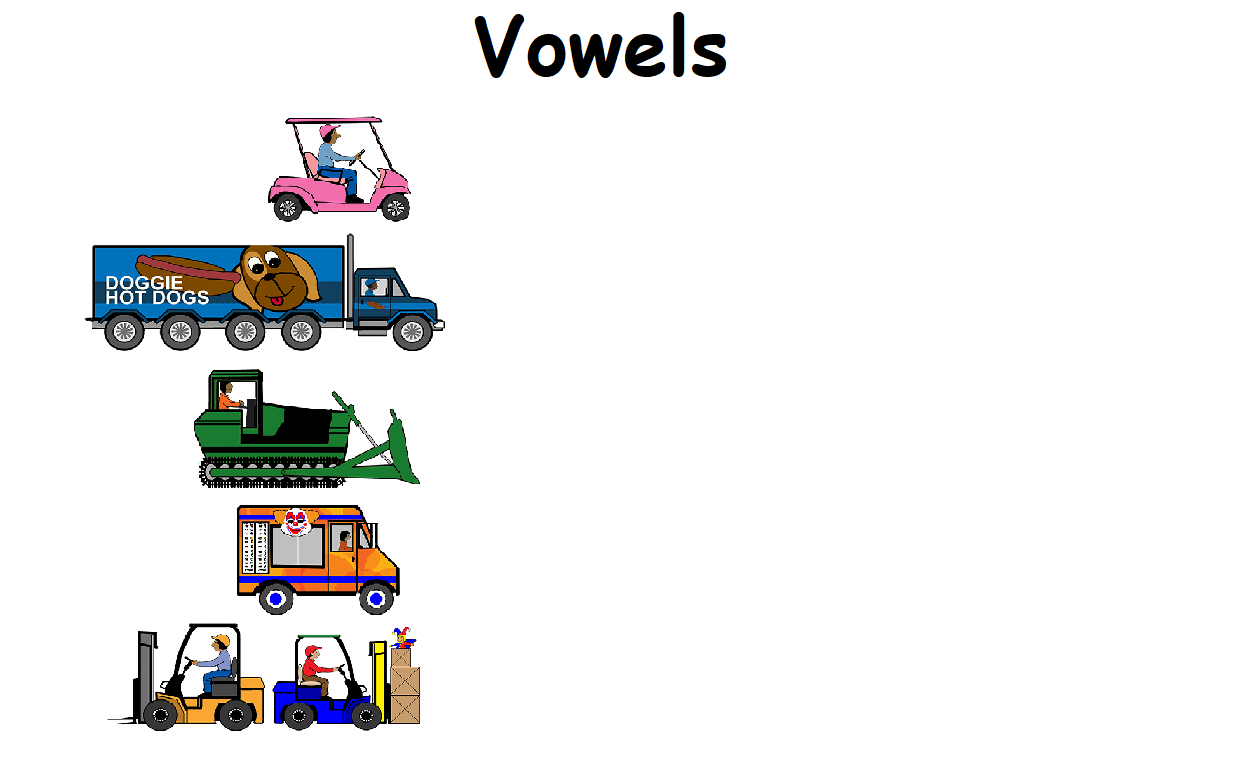
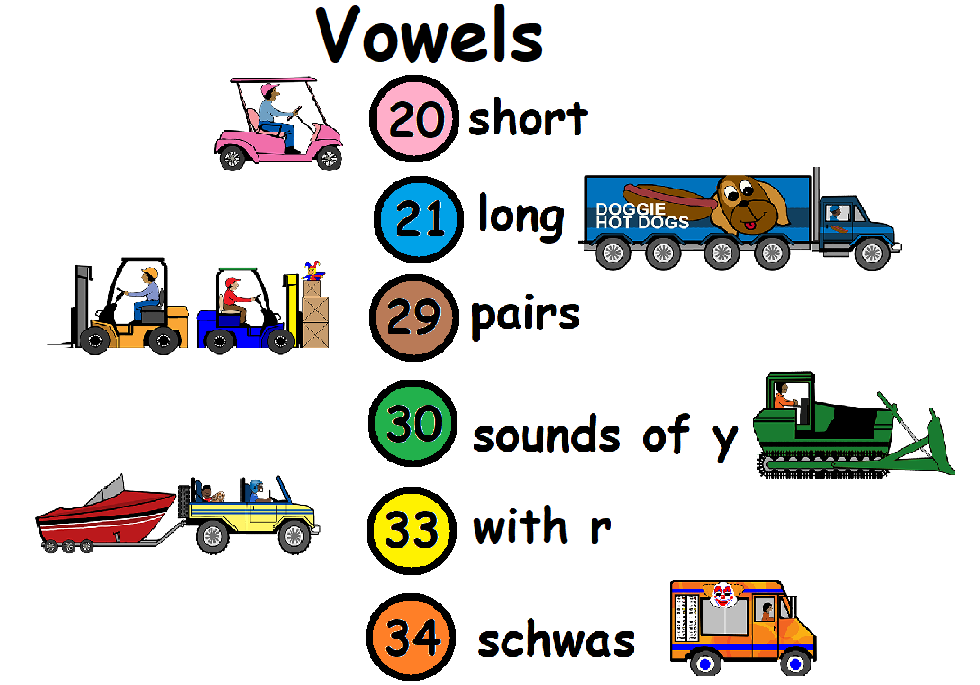
update (menu) -second vowels

Changed region(s): [[0.0306, 0.0, 0.9796, 1.0], [0.6735, 0.8277, 0.8571, 1.0], [0.6122, 0.7358, 0.6429, 0.7664]]

diff --git a/src/app/pages/second-categories/second-vowels-details/second-vowels-details.component.html b/src/app/pages/second-categories/second-vowels-details/second-vowels-details.component.html
@@ -1,18 +1,12 @@
 <div id='background'>
     <div id='main-body'>
         <div class='column'>
-            <div class='row'>
-                <button mat-icon-button class='category_button' id='short_vowels' (mouseenter)='playAudio($event)' [routerLink]="['/list-select']" [queryParams]="{'grade' : '2nd', 'list': 'V-short'}"></button>
-                <button mat-icon-button class='category_button' id='long_vowels' (mouseenter)='playAudio($event)' [routerLink]='["/list-select"]' [queryParams]="{'grade' : '2nd', 'list': 'V-long'}"></button>
-            </div>
-            <div class='row'>
-                <button mat-icon-button class='category_button' id='vowel_pairs' (mouseenter)='playAudio($event)' [routerLink]='["/list-select"]' [queryParams]="{'grade' : '2nd', 'list': 'VP'}"></button>
-                <button mat-icon-button class='category_button' id='y_sounds' (mouseenter)='playAudio($event)' [routerLink]='["/list-select"]' [queryParams]="{'grade' : '2nd', 'list': 'Y'}"></button>
-            </div>
-            <div class='row'>
-                <button mat-icon-button class='category_button' id='r' (mouseenter)='playAudio($event)' [routerLink]='["/list-select"]' [queryParams]="{'grade' : '2nd', 'list': 'R'}"></button>
-                <button mat-icon-button class='category_button' id='schwas' (mouseenter)='playAudio($event)' [routerLink]='["/list-select"]' [queryParams]="{'grade' : '2nd', 'list': 'V-schwa'}"></button>
-            </div>
+            <button mat-icon-button class='category_button' id='short_vowels' (mouseenter)='playAudio($event)' [routerLink]="['/list-select']" [queryParams]="{'grade' : '2nd', 'list': 'V-short'}"></button>
+            <button mat-icon-button class='category_button' id='long_vowels' (mouseenter)='playAudio($event)' [routerLink]='["/list-select"]' [queryParams]="{'grade' : '2nd', 'list': 'V-long'}"></button>
+            <button mat-icon-button class='category_button' id='vowel_pairs' (mouseenter)='playAudio($event)' [routerLink]='["/list-select"]' [queryParams]="{'grade' : '2nd', 'list': 'VP'}"></button>
+            <button mat-icon-button class='category_button' id='y_sounds' (mouseenter)='playAudio($event)' [routerLink]='["/list-select"]' [queryParams]="{'grade' : '2nd', 'list': 'Y'}"></button>
+            <button mat-icon-button class='category_button' id='r' (mouseenter)='playAudio($event)' [routerLink]='["/list-select"]' [queryParams]="{'grade' : '2nd', 'list': 'R'}"></button>
+            <button mat-icon-button class='category_button' id='schwas' (mouseenter)='playAudio($event)' [routerLink]='["/list-select"]' [queryParams]="{'grade' : '2nd', 'list': 'V-schwa'}"></button>
         </div>
     </div>
 

diff --git a/src/app/pages/second-categories/second-vowels-details/second-vowels-details.component.css b/src/app/pages/second-categories/second-vowels-details/second-vowels-details.component.css
@@ -1,64 +1,60 @@
 #main-body {
   width: 169.7vh;
   height: 0vh;
-  padding-left: 40vh;
+  padding-left: 23vh;
   position: relative;
 }
 
 #background {
     background-color: #FFFFFF !important;
-    background: url('../../../../assets/img/backgrounds/third_vowels_details.png') no-repeat scroll transparent;
+    background: url('../../../../assets/img/backgrounds/second_vowels_details.png') no-repeat scroll transparent;
     background-position: 14vh 2vh;
-    background-size: 173vh;
+    background-size: auto 100vh;
 }
 
 /* Phonics Categories */
 #short_vowels {
-    background: url('../../../../assets/img/buttons/second_vowels_short.png') no-repeat scroll transparent;
-    background-size: 34vh;
     margin-top: 17vh;
     cursor: pointer;
-    width: 32vh;
+    width: 52vh;
+    margin: 9vh 0vh 0vh 23vh;
 }
 #long_vowels {
-    background: url('../../../../assets/img/buttons/second_vowels_long.png') no-repeat scroll transparent;
-    background-size: 30vh;
-    margin: 17vh 0vh 0vh 7vh;
+    margin: 3vh 0vh 0vh 41vh;
     cursor: pointer;
-    width: 28vh;
+    width: 83vh;
 }
-#schwas {
-    background: url('../../../../assets/img/buttons/second_vowels_schwa.png') no-repeat scroll transparent;
-    background-size: 41vh;
-    margin-left: 3vh;
-    cursor: pointer;
-    width: 39vh;
-}
+
 #vowel_pairs {
-    background: url('../../../../assets/img/buttons/second_vowels_pairs.png') no-repeat scroll transparent;
-    background-size: 33vh;
+    margin: 2vh 0vh 0vh 1vh;
     cursor: pointer;
-    width: 31vh;
+    width: 76vh;
 }
 #y_sounds {
-    background: url('../../../../assets/img/buttons/second_vowels_y.png') no-repeat scroll transparent;
-    background-size: 55.5vh;
-    margin-left: 8vh;
+    margin: 3vh 0vh 0vh 44vh;
     cursor: pointer;
-    width: 54vh;
+    width: 87vh;
 }
 #r {
-    background: url('../../../../assets/img/buttons/second_vowels_r.png') no-repeat scroll transparent;
-    background-size: 38vh;
+    width: 89vh;
+    margin: 2vh 0vh 0vh -5vh;
     cursor: pointer;
-    width: 36vh;
+}
+
+#schwas {
+    margin: 2vh 0vh 0vh 43vh;
+    cursor: pointer;
+    width: 71vh;
 }
 
 .category_button {
     width: 39vh;
-    height: 15.7vh;
+    height: 12.7vh;
     margin: 4vh 0vh 0vh 23vh;
     border: none;
+    display: block;
+    background-color: transparent;
+    border: solid 2px red;
 }
 
 .column {

diff --git a/src/app/pages/third-categories/third-vowels-details/third-vowels-details.component.css b/src/app/pages/third-categories/third-vowels-details/third-vowels-details.component.css
@@ -58,7 +58,6 @@
     border: none;
     display: block;
     background: transparent;
-    border: solid 2px red;
 }
 
 .column {
